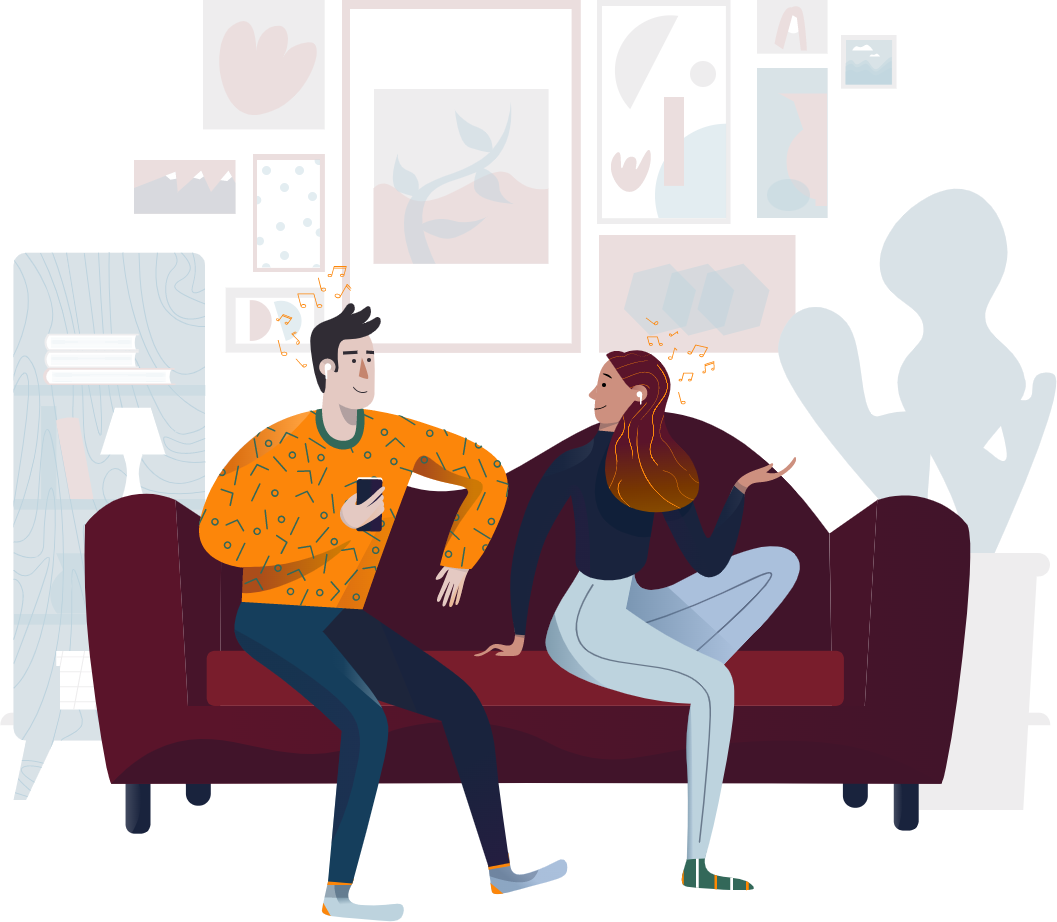
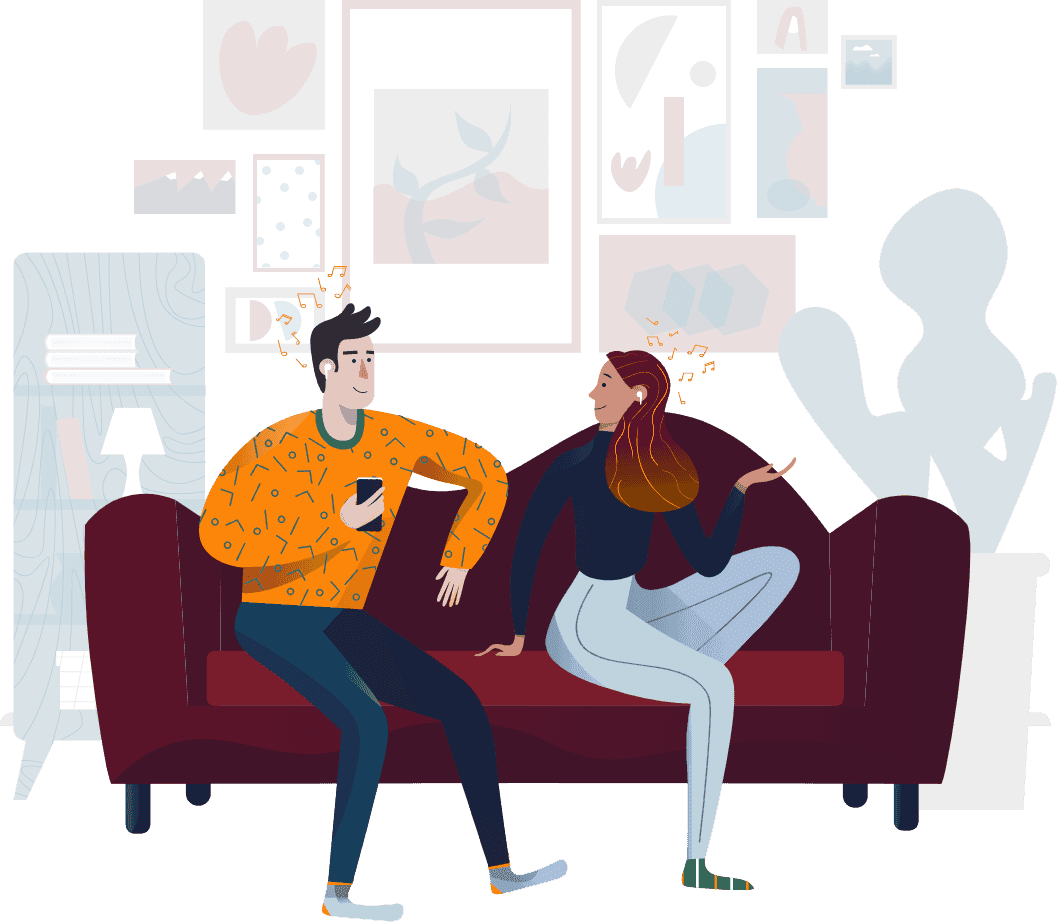
feat: 背景图片优化

diff --git a/src/assets/style/mark.less b/src/assets/style/mark.less
@@ -35,7 +35,7 @@ html[theme-mode='dark'] {
     left: 0;
     width: 100%;
     height: 100%;
-    background-image: url("@/assets/image/bg-light.png");
+    background-image: url("@/assets/image/bg-light.jpg");
     background-size: cover;
     background-repeat: no-repeat;
     background-position: center;
